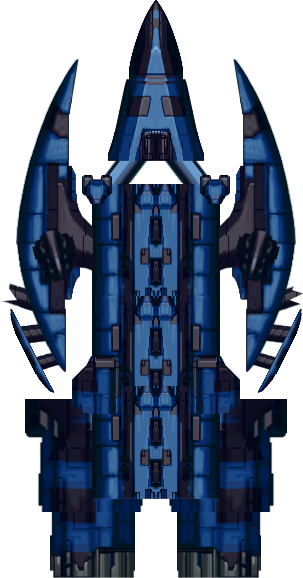
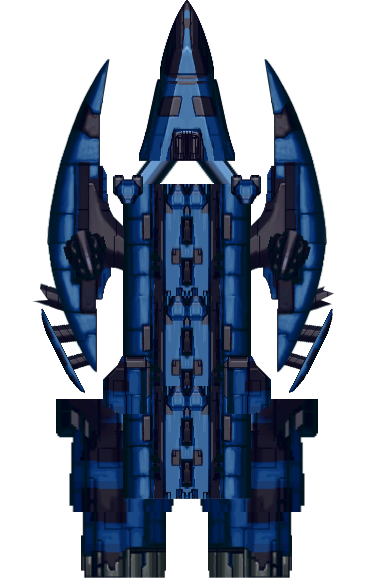
Dodano bossa na 25 poziomie

diff --git a/SFML2/BossBrown.cpp b/SFML2/BossBrown.cpp
@@ -1,6 +1,6 @@
 #include "BossBrown.h"
 
-BossBrown::BossBrown(float posX, float posY, int id)
+BossBrown::BossBrown(float posX, float posY, int lvl, int id)
 	:BasicBoss(id)
 {
 	speed = 0.07;
@@ -35,8 +35,8 @@ BossBrown::BossBrown(float posX, float posY, int id)
 	hitbox5pos.x = 120;
 	hitbox5pos.y = 0;
 
-	hp = 100;
-	maxHp = hp;
+	
+	
 
 	deathDeltaTime = 500;
 	shootDelay = 3000;
@@ -52,7 +52,31 @@ BossBrown::BossBrown(float posX, float posY, int id)
 	hitbox4.setOutlineColor(sf::Color::Green);
 	hitbox5.setOutlineColor(sf::Color::Green);
 
-	texture.loadFromFile("Images/Enemies/Boss/1/normal.png");
+	this->lvl = lvl;
+
+	if (lvl == 1)
+	{
+		texture.loadFromFile("Images/Enemies/Boss/1/normal.png");
+		hp = 100;
+		shootWing = 1000;
+		shootWingDeltaTime = 3000;
+		shootCenterDeltaTime = 6000;
+		particleName = "BossBrown1";
+	}
+	if (lvl == 2)
+	{
+		texture.loadFromFile("Images/Enemies/Boss/3/normal.png");
+		hp = 200;
+		shootWing = 500;
+		shootWingDeltaTime = 2000;
+		shootCenterDeltaTime = 4000;
+		particleName = "BossBrown2";
+	}
+
+	particleAmmount = 5;
+
+	maxHp = hp;
+	
 	sprite.setTexture(texture);		
 
 	sf::Vector2u size = texture.getSize();
@@ -64,11 +88,14 @@ BossBrown::BossBrown(float posX, float posY, int id)
 
 	haveRightWing = true;
 	haveLeftWing = true;
+
+	
+	shootCenter = 0;
 }
 
-void BossBrown::create(float posX, float posY, int id)
+void BossBrown::create(float posX, float posY, int lvl, int id)
 {
-	BasicEnemy::enemy.push_back(std::make_shared <BossBrown>(posX, posY, id));
+	BasicEnemy::enemy.push_back(std::make_shared <BossBrown>(posX, posY, lvl, id));
 }
 
 void BossBrown::render()
@@ -157,14 +184,14 @@ void BossBrown::checkCollision(int enemyNumber)
 
 void BossBrown::shoot()
 {
-	static int shootWing = 1000;
 	shootWing += GameInfo::getDeltaTime();
 
-	if (shootWing > 3000)
+	if (shootWing > shootWingDeltaTime)
 	{
 		for (int i = 0; i < 9; i++)
 		{
 			int angle = i * 10;
+			if (lvl == 2 && angle == 0) angle = 1;
 			double angleInRadian = angle * 3.141592653589793238463 / 180;
 
 			sf::Vector2f speed;
@@ -188,11 +215,10 @@ void BossBrown::shoot()
 		shootWing = 0;
 	}
 
-	static int shootCenter = 0;
 	shootCenter += GameInfo::getDeltaTime();
 
 
-	if (shootCenter > 6000)
+	if (shootCenter > shootCenterDeltaTime)
 	{
 		sf::Vector2f speed;
 		speed.x = 0;
@@ -208,7 +234,6 @@ void BossBrown::shoot()
 
 void BossBrown::destroy()
 {
-	
 	int los = rand() % 5;
 	if (los == 0) PowerUp::create(sprite.getPosition().x - 70, sprite.getPosition().y + 50, "shootSpeed");
 	if (los == 1) PowerUp::create(sprite.getPosition().x - 70, sprite.getPosition().y + 50, "shootDelay");
@@ -238,24 +263,33 @@ void BossBrown::destroy()
 	Explosion::create(sprite.getPosition().x - 30, sprite.getPosition().y + 140, 1.5, 2);
 
 
-	Particle::addParticle(sprite.getPosition().x, sprite.getPosition().y, "BasicEnemy", 600, 2);
-	Particle::addParticle(sprite.getPosition().x + 100, sprite.getPosition().y - 50, "BasicEnemy", 20, 1);
-	Particle::addParticle(sprite.getPosition().x - 120, sprite.getPosition().y + 30, "BasicEnemy", 20, 1);
-	Particle::addParticle(sprite.getPosition().x - 60, sprite.getPosition().y - 100, "BasicEnemy", 20, 1);
-	Particle::addParticle(sprite.getPosition().x + 40, sprite.getPosition().y - 120, "BasicEnemy", 20, 1);
-	Particle::addParticle(sprite.getPosition().x + 50, sprite.getPosition().y + 120, "BasicEnemy", 20, 1);
-	Particle::addParticle(sprite.getPosition().x - 30, sprite.getPosition().y + 140, "BasicEnemy", 20, 1);
+	Particle::addParticle(sprite.getPosition().x, sprite.getPosition().y, particleName, 600, 2);
+	Particle::addParticle(sprite.getPosition().x + 100, sprite.getPosition().y - 50, particleName, 20, 1);
+	Particle::addParticle(sprite.getPosition().x - 120, sprite.getPosition().y + 30, particleName, 20, 1);
+	Particle::addParticle(sprite.getPosition().x - 60, sprite.getPosition().y - 100, particleName, 20, 1);
+	Particle::addParticle(sprite.getPosition().x + 40, sprite.getPosition().y - 120, particleName, 20, 1);
+	Particle::addParticle(sprite.getPosition().x + 50, sprite.getPosition().y + 120, particleName, 20, 1);
+	Particle::addParticle(sprite.getPosition().x - 30, sprite.getPosition().y + 140, particleName, 20, 1);
 }
 
 void BossBrown::createLeftWingParticle()
 {
 	static int timesHited = 0;
 	timesHited++;
-	if (timesHited == 30)
+	if (timesHited == (int)maxHp/3)
 	{
 		haveLeftWing = false;
-		if(haveRightWing) texture.loadFromFile("Images/Enemies/Boss/1/leftWing.png");
-		else texture.loadFromFile("Images/Enemies/Boss/1/bothWings.png");
+		if (lvl == 1)
+		{
+			if (haveRightWing) texture.loadFromFile("Images/Enemies/Boss/1/leftWing.png");
+			else texture.loadFromFile("Images/Enemies/Boss/1/bothWings.png");
+		}
+		else
+		{
+			if (haveRightWing) texture.loadFromFile("Images/Enemies/Boss/3/leftWing.png");
+			else texture.loadFromFile("Images/Enemies/Boss/3/bothWings.png");
+		}
+		
 		
 		Explosion::create(sprite.getPosition().x + hitbox4pos.x, sprite.getPosition().y + hitbox4pos.y);
 		hitbox4.setScale(0, 0);
@@ -263,23 +297,31 @@ void BossBrown::createLeftWingParticle()
 		hitbox4pos.y = 0;
 	}
 
-	Particle::addParticle(sprite.getPosition().x + hitbox4pos.x, sprite.getPosition().y + hitbox4pos.y, "BasicEnemy", 15, 0.5);
+	Particle::addParticle(sprite.getPosition().x + hitbox4pos.x, sprite.getPosition().y + hitbox4pos.y, particleName, particleAmmount, 0.5);
 }
 
 void BossBrown::createRightWingParticle()
 {
 	static int timesHited = 0;
 	timesHited++;
-	if (timesHited == 30)
+	if (timesHited == (int)maxHp / 3)
 	{
 		haveRightWing = false;
-		if(haveLeftWing) texture.loadFromFile("Images/Enemies/Boss/1/rightWing.png");
-		else texture.loadFromFile("Images/Enemies/Boss/1/bothWings.png");
+		if (lvl == 1)
+		{
+			if (haveLeftWing) texture.loadFromFile("Images/Enemies/Boss/1/rightWing.png");
+			else texture.loadFromFile("Images/Enemies/Boss/1/bothWings.png");
+		}
+		else
+		{
+			if (haveLeftWing) texture.loadFromFile("Images/Enemies/Boss/3/rightWing.png");
+			else texture.loadFromFile("Images/Enemies/Boss/3/bothWings.png");
+		}
 		Explosion::create(sprite.getPosition().x + hitbox5pos.x, sprite.getPosition().y + hitbox5pos.y);
 		hitbox5.setScale(0, 0);
 		hitbox5pos.x = 0;
 		hitbox5pos.y = 0;
 	}
 
-	Particle::addParticle(sprite.getPosition().x + hitbox5pos.x, sprite.getPosition().y + hitbox5pos.y, "BasicEnemy", 15, 0.5);
+	Particle::addParticle(sprite.getPosition().x + hitbox5pos.x, sprite.getPosition().y + hitbox5pos.y, particleName, particleAmmount, 0.5);
 }

diff --git a/SFML2/LevelEvent.cpp b/SFML2/LevelEvent.cpp
@@ -594,6 +594,30 @@ void LevelEvent::level24()
 
 void LevelEvent::level25()
 {
+	static bool down = true;
+	static bool army1Right = true;
+	static bool army2Left = true;
+
+	static clock_t prevTime = clock();
+	if (clock() - prevTime > 1000)
+	{
+		down = true;
+		army1Right = false;
+		army2Left = false;
+	}
+	prevTime = clock();
+
+	for (int i = BasicEnemy::enemy.size() - 1; i >= 0; i--)
+	{
+		if (BasicEnemy::enemy[i]->id == 0 && down) BasicEnemy::enemy[i]->moveDown();
+
+		if (BasicEnemy::enemy[i]->id == 1 && army1Right) BasicEnemy::enemy[i]->moveRight();
+		if (BasicEnemy::enemy[i]->id == 2 && army2Left) BasicEnemy::enemy[i]->moveLeft();
+	}
+
+	if (BasicEnemy::mostToTheBottom(0) > 200) down = false;
+	if (BasicEnemy::mostToTheRight(1) > 600) army1Right = false;
+	if (BasicEnemy::mostToTheLeft(2) < 1000) army2Left = false;
 }
 
 void LevelEvent::level26()

diff --git a/SFML2/LevelManager.cpp b/SFML2/LevelManager.cpp
@@ -1,6 +1,6 @@
 #include "LevelManager.h"
 
-int LevelManager::actualLevel = 20;
+int LevelManager::actualLevel = 0;
 bool LevelManager::animation = false;
 sf::Text LevelManager::text;
 sf::Font LevelManager::font;
@@ -198,7 +198,7 @@ void LevelManager::level9()
 
 void LevelManager::level10()
 {
-	BossBrown::create(800, -200);
+	BossBrown::create(800, -200, 1, 1);
 }
 
 void LevelManager::level11()
@@ -392,6 +392,17 @@ void LevelManager::level24()
 
 void LevelManager::level25()
 {
+	BossBrown::create(800, -200, 2, 0);
+
+	for (int i = 0; i < 3; i++)
+	{
+		EnemyMedium::create(-i * 250 - 200, 450, 3, 1);
+	}
+
+	for (int i = 0; i < 3; i++)
+	{
+		EnemyMedium::create(i * 250 + 1800, 450, 3, 2);
+	}
 }
 
 void LevelManager::level26()

diff --git a/SFML2/BossBrown.h b/SFML2/BossBrown.h
@@ -10,12 +10,18 @@ class BossBrown : public BasicBoss
 	sf::RectangleShape hitbox4;
 	sf::RectangleShape hitbox5;
 
+	int lvl;
+	int shootWing;
+	int shootCenter;
+	int shootWingDeltaTime;
+	int shootCenterDeltaTime;
+
 	bool haveRightWing;
 	bool haveLeftWing;
 
 public:
-	BossBrown(float posX, float posY, int id);
-	static void create(float posX, float posY, int id = -1);
+	BossBrown(float posX, float posY, int lvl, int id);
+	static void create(float posX, float posY, int lvl, int id = -1);
 	void render();
 	void checkCollision(int enemyNumber);
 	void shoot();

diff --git a/SFML2/Particle.cpp b/SFML2/Particle.cpp
@@ -7,6 +7,8 @@ Particle::Particle(float a, float h, std::string name, float speed)
 {
 	if (name == "BasicEnemy") teksture.loadFromFile("Images/Particles/BasicEnemy.png");
 	if (name == "EnemyTank") teksture.loadFromFile("Images/Particles/EnemyTank.png");
+	if (name == "BossBrown1") teksture.loadFromFile("Images/Particles/BossBrown1.png");
+	if (name == "BossBrown2") teksture.loadFromFile("Images/Particles/BossBrown2.png");
 
 	static bool firstTime = true;
 	if (firstTime)

diff --git a/SFML2/EnemyEasy.cpp b/SFML2/EnemyEasy.cpp
@@ -67,7 +67,7 @@ EnemyEasy::EnemyEasy(float x, float y, int level, int id)
 	}
 
 	hp = 1;
-	shootDelay = 300;
+	shootDelay = 3000;
 	shootType = 2;
 	shootScale = 1;
 							
